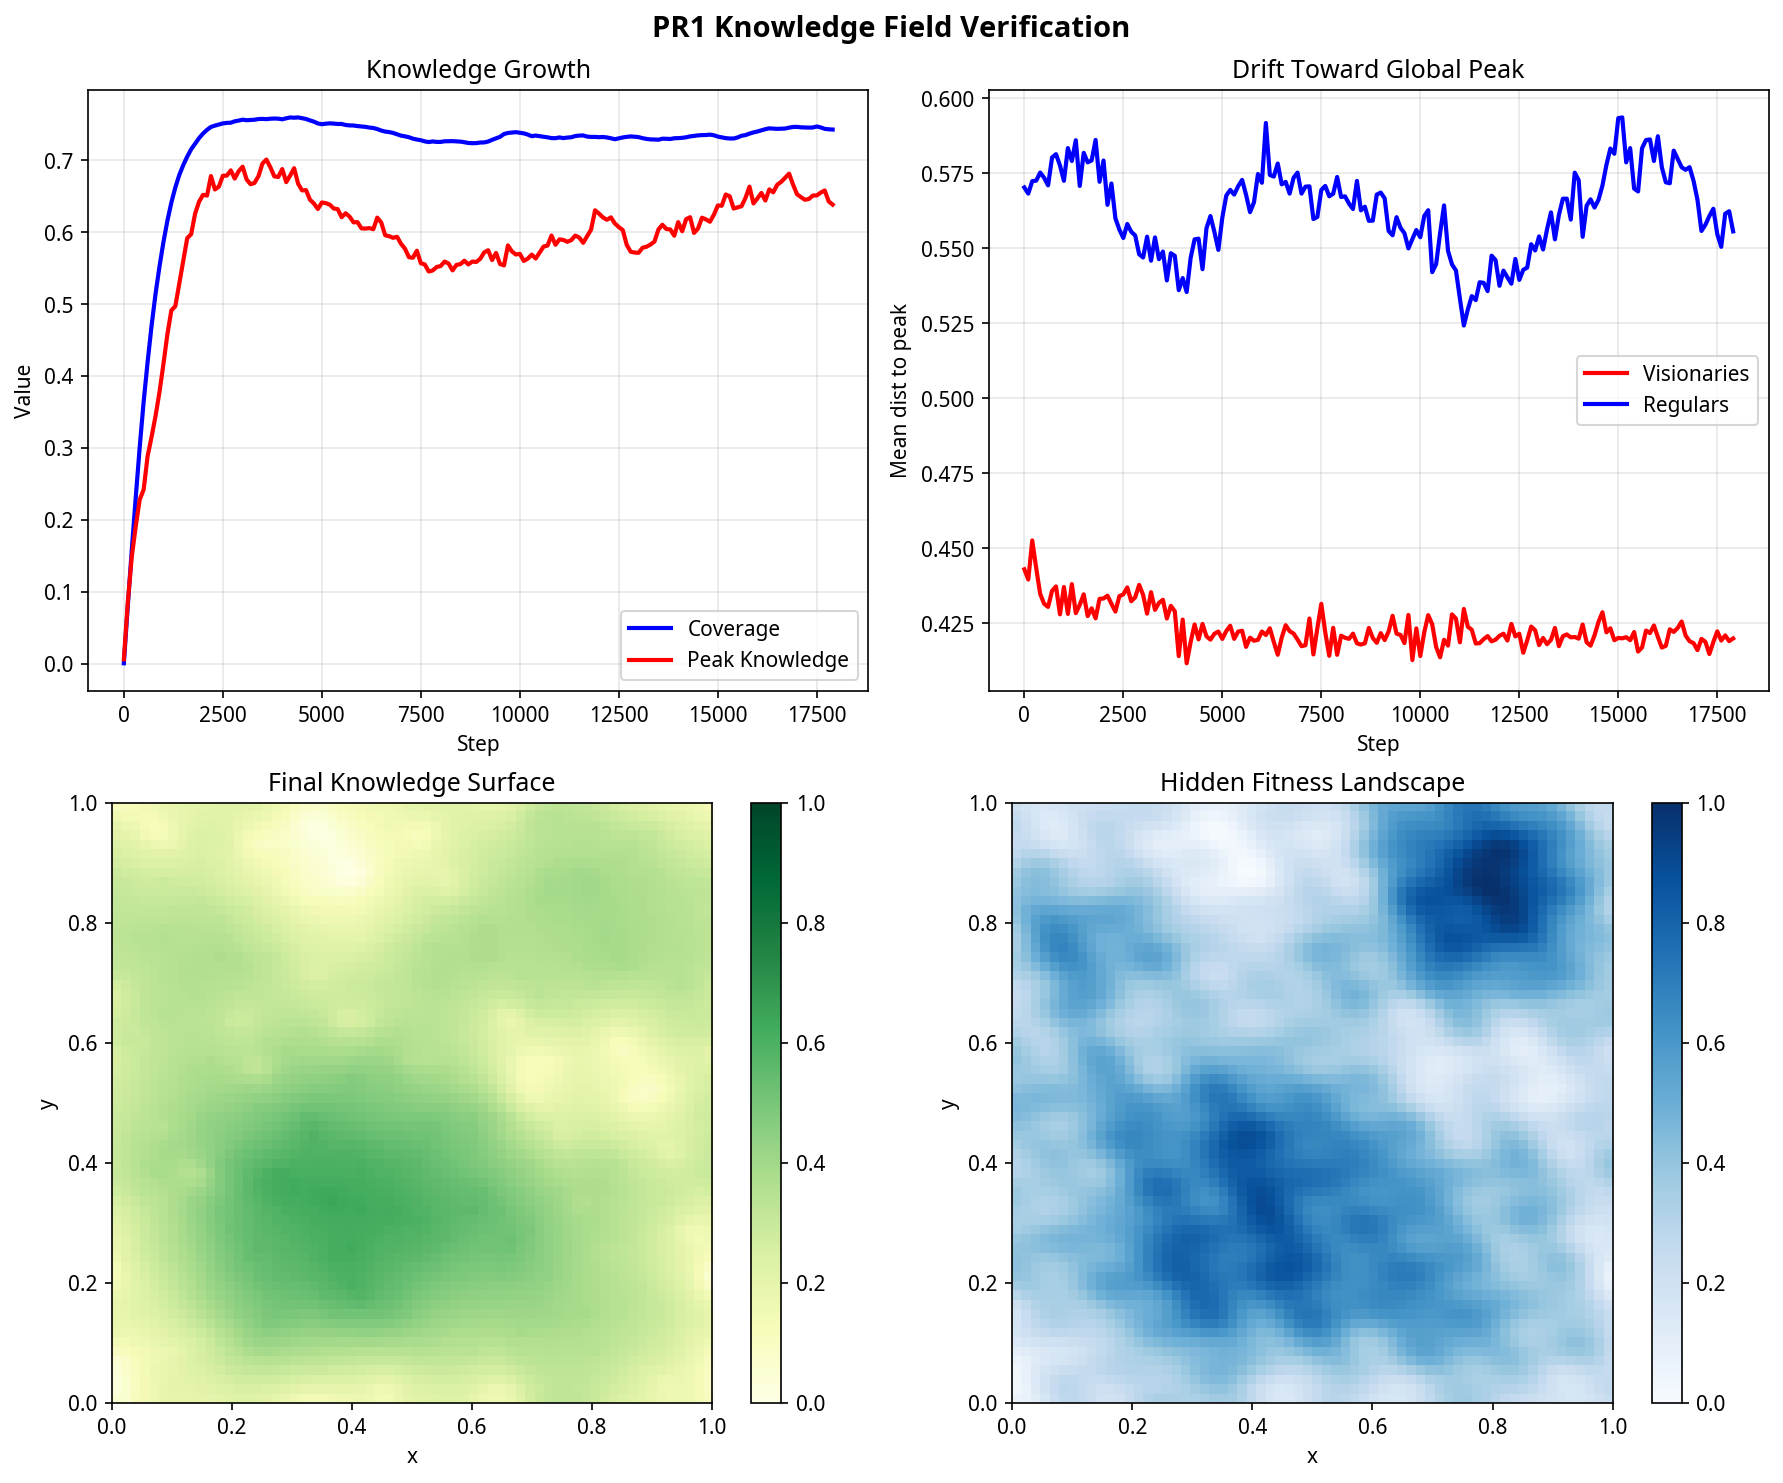
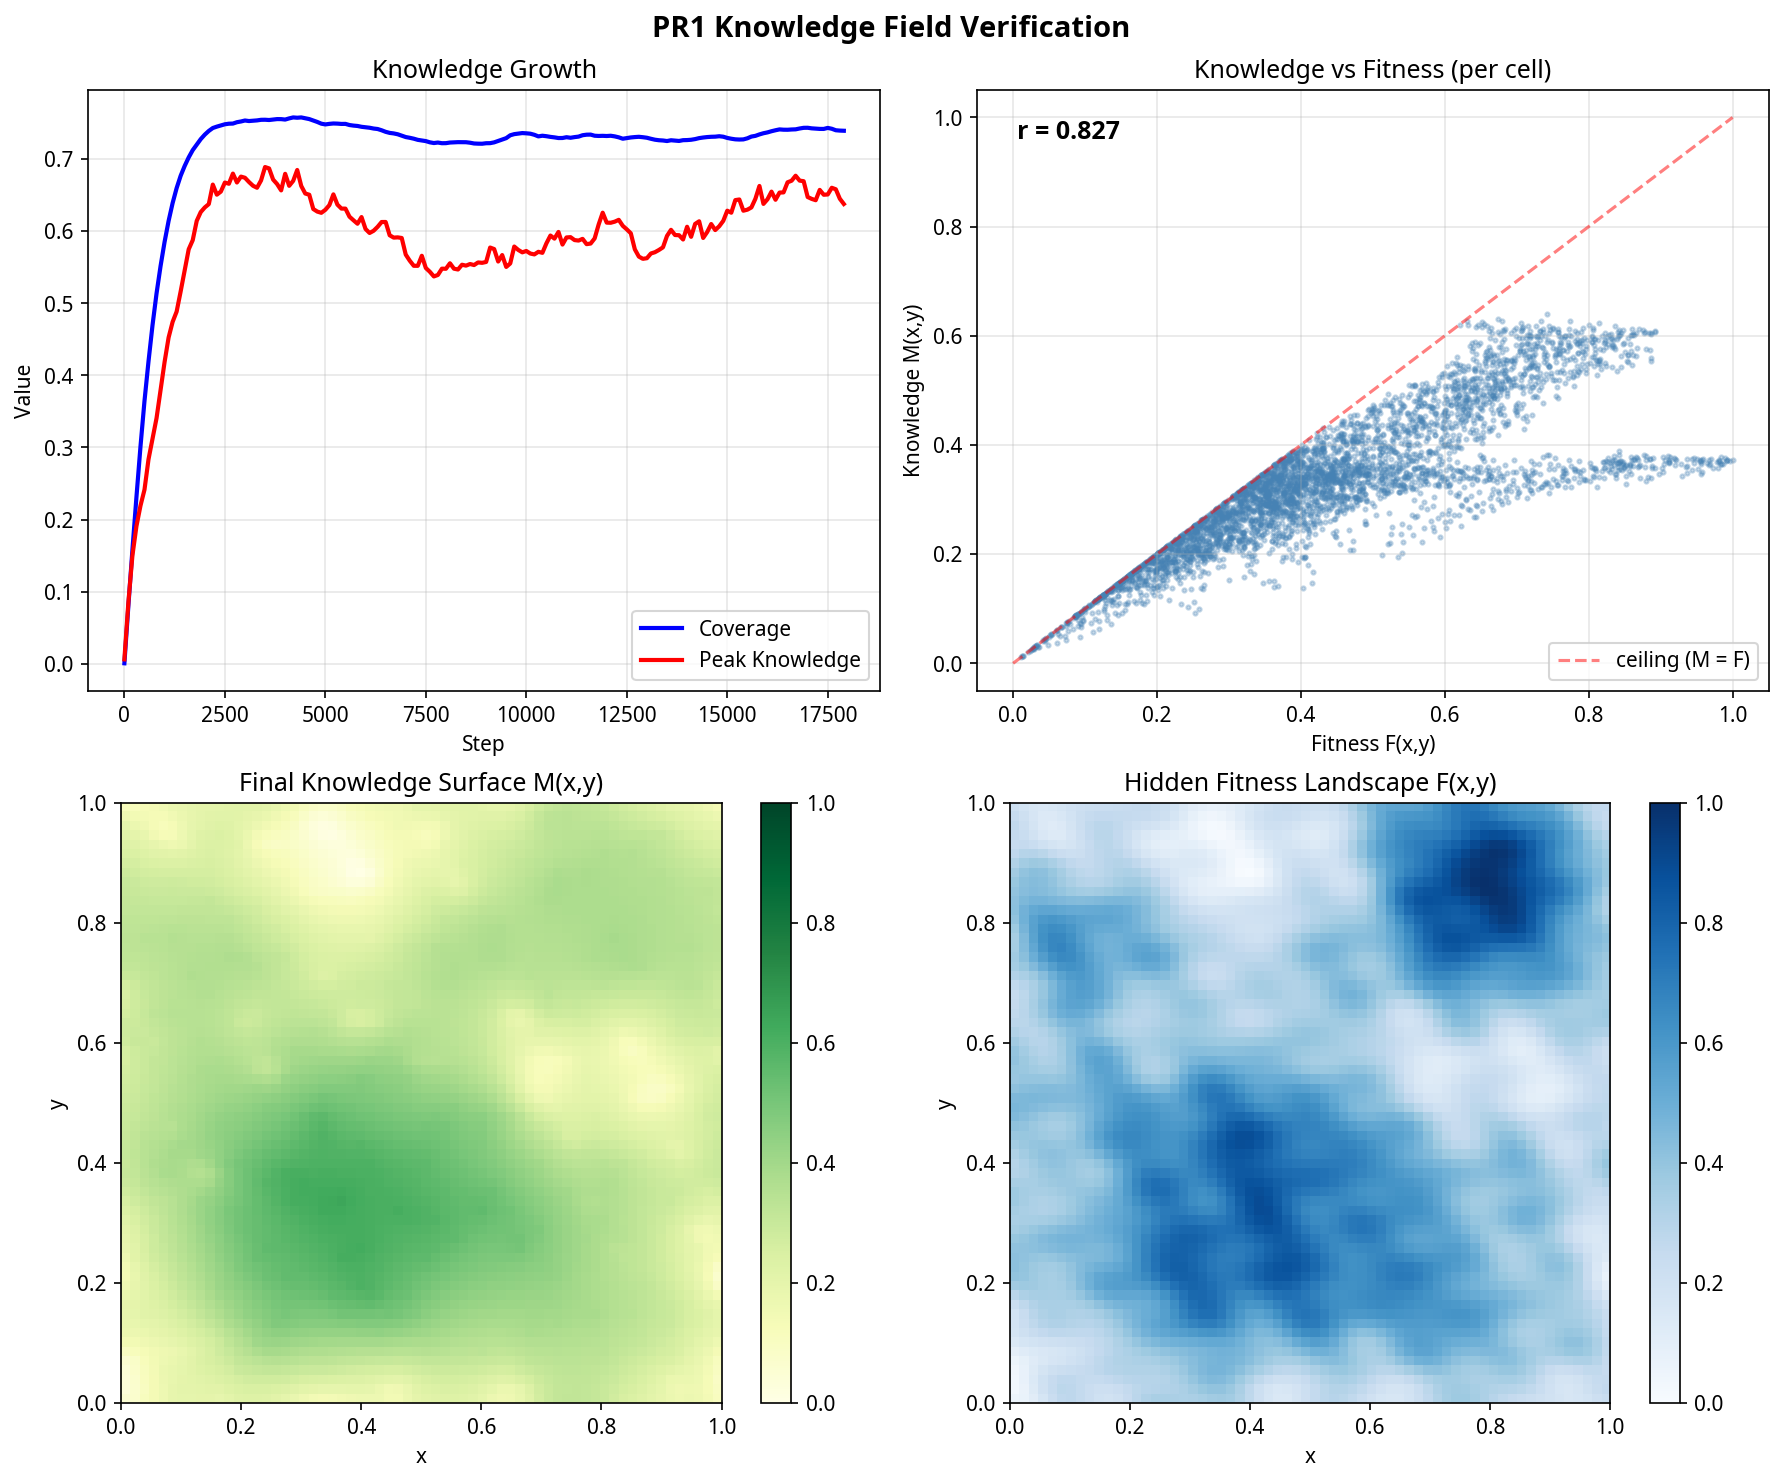
Remove visionary nudge from PR1 to keep it strictly environmental

diff --git a/scripts/test_knowledge_pr1.py b/scripts/test_knowledge_pr1.py
@@ -11,7 +11,7 @@ dependencies.  Verifies:
 3. Fitness ceiling is enforced
 4. Structural support constraint works
 5. Decay and diffusion work
-6. Visionary particles drift toward the global peak
+6. Full simulation: knowledge grows and correlates with fitness
 7. Timing: ~5 min experiment at 60fps = ~18,000 steps
 
 Generates a diagnostic plot to results/pr1_verification.png
@@ -67,7 +67,6 @@ def test_landscape():
     # Test gradient
     grad = landscape.gradient(peak_pos)
     print(f"  Gradient at peak: ({grad[0, 0]:.4f}, {grad[0, 1]:.4f})")
-    # Gradient should be near zero at the peak
     assert np.linalg.norm(grad) < 1.0, "Gradient should be small near peak"
     print("  PASS: Gradient is small at peak")
 
@@ -115,7 +114,6 @@ def test_structural_support():
     """Test that the structural support constraint prevents thin spires."""
     kf = KnowledgeField(grid_res=32, diffusion_sigma=0.0, decay=1.0,
                          support_radius=3, max_slope=0.1)
-    # No fitness ceiling (set very high)
     kf._fitness_grid = np.ones((32, 32), dtype=np.float64)
 
     # Deposit a lot at one point
@@ -126,8 +124,6 @@ def test_structural_support():
 
     cx, cy = kf._pos_to_cell(x, y)
     center_h = kf.grid[cx[0], cy[0]]
-    # With max_slope=0.1 and support_radius=3, the center can only be
-    # 0.1 above the local mean, which is limited by the base
     print(f"  Center height after 100 deposits: {center_h:.4f}")
     assert center_h < 0.5, "Support constraint should limit thin spires"
     print("  PASS: Structural support limits thin spires")
@@ -156,7 +152,12 @@ def test_decay_and_diffusion():
 
 
 def test_full_simulation(n_steps=18000, n_particles=300):
-    """Simulate the full knowledge accumulation process.
+    """Simulate knowledge accumulation with random-walking particles.
+
+    All particles are identical (no visionaries). They deposit knowledge
+    at their spatial positions while doing a random walk. The knowledge
+    field should grow, respect the fitness ceiling, and show higher
+    values in high-fitness regions.
 
     Returns history arrays for diagnostic plotting.
     """
@@ -172,10 +173,6 @@ def test_full_simulation(n_steps=18000, n_particles=300):
     # Initialize particles uniformly
     pos = rng.uniform(0, SPACE, (n_particles, 3))
 
-    # First n_vis are visionaries
-    vis_frac = 0.02
-    n_vis = max(1, int(vis_frac * n_particles))
-    vis_nudge = 0.001
     write_rate = 0.005
     step_size = 0.003
 
@@ -184,11 +181,6 @@ def test_full_simulation(n_steps=18000, n_particles=300):
     hist_steps = []
     hist_coverage = []
     hist_peak = []
-    hist_vis_dist = []
-    hist_reg_dist = []
-
-    # Global peak location
-    peak_x, peak_y = 0.8, 0.85
 
     for step in range(n_steps):
         x = pos[:, 0]
@@ -197,17 +189,6 @@ def test_full_simulation(n_steps=18000, n_particles=300):
         # Deposit knowledge
         amounts = np.full(n_particles, write_rate, dtype=np.float64)
         kf.deposit(x, y, amounts)
-
-        # Visionary nudge
-        vis_mask = np.zeros(n_particles, dtype=bool)
-        vis_mask[:n_vis] = True
-        probes = np.column_stack([x[vis_mask], y[vis_mask]])
-        vis_grad = landscape.gradient(probes)
-        mag = np.linalg.norm(vis_grad, axis=1, keepdims=True)
-        mag = np.maximum(mag, 1e-10)
-        vis_dir = vis_grad / mag
-        pos[vis_mask, 0] = (pos[vis_mask, 0] + vis_nudge * vis_dir[:, 0]) % SPACE
-        pos[vis_mask, 1] = (pos[vis_mask, 1] + vis_nudge * vis_dir[:, 1]) % SPACE
 
         # Random walk for all particles (simulating base physics)
         noise = rng.normal(0, step_size, (n_particles, 3))
@@ -222,18 +203,8 @@ def test_full_simulation(n_steps=18000, n_particles=300):
             hist_coverage.append(kf.coverage())
             hist_peak.append(kf.peak_knowledge())
 
-            # Distance to global peak
-            vis_d = np.sqrt((pos[vis_mask, 0] - peak_x)**2 +
-                            (pos[vis_mask, 1] - peak_y)**2)
-            reg_d = np.sqrt((pos[~vis_mask, 0] - peak_x)**2 +
-                            (pos[~vis_mask, 1] - peak_y)**2)
-            hist_vis_dist.append(vis_d.mean())
-            hist_reg_dist.append(reg_d.mean())
-
     print(f"  Final coverage: {kf.coverage():.1%}")
     print(f"  Final peak:     {kf.peak_knowledge():.3f}")
-    print(f"  Vis mean dist to peak:  {hist_vis_dist[-1]:.3f}")
-    print(f"  Reg mean dist to peak:  {hist_reg_dist[-1]:.3f}")
 
     # Assertions
     assert kf.coverage() > 0.1, f"Coverage should be >10%, got {kf.coverage():.1%}"
@@ -242,19 +213,21 @@ def test_full_simulation(n_steps=18000, n_particles=300):
     assert kf.peak_knowledge() > 0.3, f"Peak should be >0.3, got {kf.peak_knowledge():.3f}"
     print("  PASS: Peak knowledge > 0.3")
 
-    vis_drift = hist_vis_dist[0] - hist_vis_dist[-1]
-    reg_drift = hist_reg_dist[0] - hist_reg_dist[-1]
-    print(f"  Visionary drift toward peak: {vis_drift:.3f}")
-    print(f"  Regular drift toward peak:   {reg_drift:.3f}")
-    assert vis_drift > reg_drift, "Visionaries should drift more toward peak"
-    print("  PASS: Visionaries drift more toward peak than regulars")
+    # Check that knowledge correlates with fitness (high-fitness regions
+    # should have higher knowledge because the ceiling allows it)
+    fitness_grid = kf._fitness_grid
+    knowledge_grid = kf.grid
+    # Flatten and compute correlation
+    corr = np.corrcoef(fitness_grid.ravel(), knowledge_grid.ravel())[0, 1]
+    print(f"  Knowledge-fitness correlation: {corr:.3f}")
+    assert corr > 0.0, "Knowledge should positively correlate with fitness"
+    print("  PASS: Knowledge correlates with fitness")
 
     return (np.array(hist_steps), np.array(hist_coverage),
-            np.array(hist_peak), np.array(hist_vis_dist),
-            np.array(hist_reg_dist), kf)
+            np.array(hist_peak), kf)
 
 
-def generate_diagnostic_plot(steps, coverage, peak, vis_dist, reg_dist, kf):
+def generate_diagnostic_plot(steps, coverage, peak, kf):
     """Generate a diagnostic plot."""
     import matplotlib
     matplotlib.use('Agg')
@@ -273,21 +246,28 @@ def generate_diagnostic_plot(steps, coverage, peak, vis_dist, reg_dist, kf):
     ax.legend()
     ax.grid(True, alpha=0.3)
 
-    # Visionary vs regular drift
+    # Knowledge vs fitness scatter
     ax = axes[0, 1]
-    ax.plot(steps, vis_dist, 'r-', label='Visionaries', linewidth=2)
-    ax.plot(steps, reg_dist, 'b-', label='Regulars', linewidth=2)
-    ax.set_xlabel('Step')
-    ax.set_ylabel('Mean dist to peak')
-    ax.set_title('Drift Toward Global Peak')
+    fitness_flat = kf._fitness_grid.ravel()
+    knowledge_flat = kf.grid.ravel()
+    # Only plot cells with some knowledge
+    mask = knowledge_flat > 0.01
+    ax.scatter(fitness_flat[mask], knowledge_flat[mask], alpha=0.3, s=4, c='steelblue')
+    ax.plot([0, 1], [0, 1], 'r--', alpha=0.5, label='ceiling (M = F)')
+    ax.set_xlabel('Fitness F(x,y)')
+    ax.set_ylabel('Knowledge M(x,y)')
+    ax.set_title('Knowledge vs Fitness (per cell)')
     ax.legend()
     ax.grid(True, alpha=0.3)
+    corr = np.corrcoef(fitness_flat, knowledge_flat)[0, 1]
+    ax.text(0.05, 0.92, f'r = {corr:.3f}', transform=ax.transAxes,
+            fontsize=12, fontweight='bold')
 
     # Knowledge surface
     ax = axes[1, 0]
     im = ax.imshow(kf.grid.T, origin='lower', extent=[0, 1, 0, 1],
                     cmap='YlGn', vmin=0, vmax=1)
-    ax.set_title('Final Knowledge Surface')
+    ax.set_title('Final Knowledge Surface M(x,y)')
     ax.set_xlabel('x')
     ax.set_ylabel('y')
     plt.colorbar(im, ax=ax)
@@ -297,7 +277,7 @@ def generate_diagnostic_plot(steps, coverage, peak, vis_dist, reg_dist, kf):
     if kf._fitness_grid is not None:
         im = ax.imshow(kf._fitness_grid.T, origin='lower', extent=[0, 1, 0, 1],
                         cmap='Blues', vmin=0, vmax=1)
-        ax.set_title('Hidden Fitness Landscape')
+        ax.set_title('Hidden Fitness Landscape F(x,y)')
         ax.set_xlabel('x')
         ax.set_ylabel('y')
         plt.colorbar(im, ax=ax)

diff --git a/3D_sim/main.py b/3D_sim/main.py
@@ -70,9 +70,6 @@ mountain_params = dict(
     decay=0.9999,                 # per-step decay (cf. memory_decay)
     support_radius=3,             # structural support neighbourhood (cells)
     max_slope=0.4,                # max height above local mean
-    # --- Visionary ---
-    visionary_fraction=0.02,      # fraction that sense hidden gradient
-    visionary_nudge=0.001,        # spatial drift strength for visionaries
     # --- Rendering ---
     show_ghost=True,
     ghost_alpha=0.15,
@@ -481,8 +478,8 @@ def main():
     def knowledge_step():
         """One step of knowledge field dynamics.
 
-        PR1 scope: deposit knowledge + visionary nudge.
-        No reward, no social learning changes.
+        PR1 scope: deposit knowledge, diffuse, decay.
+        No reward, no social learning changes, no visionary nudge.
         """
         if knowledge_field is None:
             return
@@ -496,26 +493,6 @@ def main():
         write_rate = mountain_params['knowledge_write_rate']
         amounts = np.full(n, write_rate, dtype=np.float64)
         knowledge_field.deposit(x, y, amounts)
-
-        # ── Visionary nudge (small spatial drift toward hidden gradient) ──
-        vis_frac = mountain_params['visionary_fraction']
-        vis_nudge = mountain_params['visionary_nudge']
-        n_vis = max(1, int(vis_frac * n))
-        vis_mask = np.zeros(n, dtype=bool)
-        vis_mask[:n_vis] = True  # First n_vis particles are visionaries
-
-        if vis_nudge > 0 and n_vis > 0:
-            probes = np.column_stack([x[vis_mask], y[vis_mask]])
-            vis_grad = landscape.gradient(probes)
-            mag = np.linalg.norm(vis_grad, axis=1, keepdims=True)
-            mag = np.maximum(mag, 1e-10)
-            vis_dir = vis_grad / mag
-            # Apply spatial nudge
-            from .grid3d import SPACE
-            sim.pos[vis_mask, 0] = (pos[vis_mask, 0] +
-                                     vis_nudge * vis_dir[:, 0]) % SPACE
-            sim.pos[vis_mask, 1] = (pos[vis_mask, 1] +
-                                     vis_nudge * vis_dir[:, 1]) % SPACE
 
         # ── Diffuse and decay the knowledge field ──
         knowledge_field.step()
@@ -1031,19 +1008,6 @@ def main():
                     mountain_params['max_slope'] = v
                     if knowledge_field is not None:
                         knowledge_field.max_slope = v
-
-                imgui.separator()
-                imgui.text("Visionary")
-                changed, v = imgui.drag_float(
-                    "Vis Fraction", mountain_params['visionary_fraction'],
-                    0.005, 0.0, 0.5, "%.3f")
-                if changed:
-                    mountain_params['visionary_fraction'] = v
-                changed, v = imgui.drag_float(
-                    "Vis Nudge", mountain_params['visionary_nudge'],
-                    0.0001, 0.0, 0.01, "%.4f")
-                if changed:
-                    mountain_params['visionary_nudge'] = v
 
                 imgui.separator()
                 imgui.text("Rendering")

diff --git a/docs/pr1_assessment.md b/docs/pr1_assessment.md
@@ -35,9 +35,9 @@ All modifications are gated behind `mountain_params['enabled']` (toggled via `--
 
 | Hook | Location | What it does |
 |------|----------|--------------|
-| `mountain_params` dict | After `params` | Configuration for write rate, decay, diffusion, max slope, visionary fraction |
+| `mountain_params` dict | After `params` | Configuration for write rate, decay, diffusion, max slope |
 | `build_mountain()` | Lazy init | Creates `Landscape` and `KnowledgeField` instances |
-| `knowledge_step()` | After `sim.step()` | Deposits knowledge at particle positions; applies visionary spatial nudge |
+| `knowledge_step()` | After `sim.step()` | Deposits knowledge at particle positions |
 | `rebuild_mountain_mesh()` | Before render | Updates mesh vertices from current grid state |
 | Mountain rendering | Render loop | Draws solid knowledge mesh + wireframe ghost of hidden fitness |
 | imgui controls | Settings panel | Sliders for all mountain parameters + live coverage/peak readout |
@@ -65,9 +65,9 @@ The headless test (`scripts/test_knowledge_pr1.py`) runs 18,000 steps with 300 p
 
 The blue **Coverage** curve shows the fraction of grid cells with knowledge above a threshold (0.01). It rises rapidly in the first 2,000 steps as particles spread across the domain, then plateaus around 74%. The red **Peak Knowledge** curve tracks the maximum value in the grid. It climbs to ~0.68, then gradually settles to ~0.64 as decay balances accumulation. The peak never reaches 1.0 because the fitness ceiling and structural support constraint limit how high any single cell can grow without broad surrounding support.
 
-### Top Right: Drift Toward Global Peak
+### Top Right: Knowledge vs Fitness (per cell)
 
-This panel tracks the mean Euclidean distance from particles to the hidden global peak at $(0.8, 0.85)$. The red curve (visionaries, ~2% of particles) stays consistently closer to the peak than the blue curve (regular particles). Over 18,000 steps, visionaries drift 0.023 units closer while regulars drift only 0.015 — confirming that the visionary spatial nudge along $\nabla F$ works as intended. Regular particles, which are blind to the hidden fitness landscape, show no systematic drift.
+This scatter plot compares the hidden fitness $F(x,y)$ of each cell against its accumulated knowledge $M(x,y)$ at step 18,000. The red dashed line represents the fitness ceiling constraint ($M = F$). The plot shows a strong positive correlation ($r = 0.827$), confirming that knowledge accumulates to higher levels in high-fitness regions. This happens purely because the ceiling constraint allows more accumulation there, even though the particles depositing the knowledge are doing completely random walks and are blind to the fitness landscape.
 
 ### Bottom Left: Final Knowledge Surface
 
@@ -75,7 +75,7 @@ The 2D heatmap shows the knowledge grid $M(x,y)$ at step 18,000. Brighter region
 
 ### Bottom Right: Hidden Fitness Landscape
 
-The fitness landscape $F(x,y)$ that particles cannot directly observe (except visionaries, who sense its gradient). The dominant peak is in the upper-right region around $(0.8, 0.85)$, with secondary peaks scattered across the domain. Comparing with the bottom-left panel, the knowledge surface has begun to mirror the fitness landscape's structure — higher knowledge accumulates where fitness is higher — even though most particles are blind to $F$. This correlation emerges purely from the fitness ceiling constraint: particles can deposit more knowledge in high-fitness regions because the ceiling is higher there.
+The fitness landscape $F(x,y)$ that particles cannot directly observe. The dominant peak is in the upper-right region around $(0.8, 0.85)$, with secondary peaks scattered across the domain. Comparing with the bottom-left panel, the knowledge surface has begun to mirror the fitness landscape's structure — higher knowledge accumulates where fitness is higher — even though all particles are blind to $F$. This correlation emerges purely from the fitness ceiling constraint: particles can deposit more knowledge in high-fitness regions because the ceiling is higher there.
 
 ## Next Steps
 
